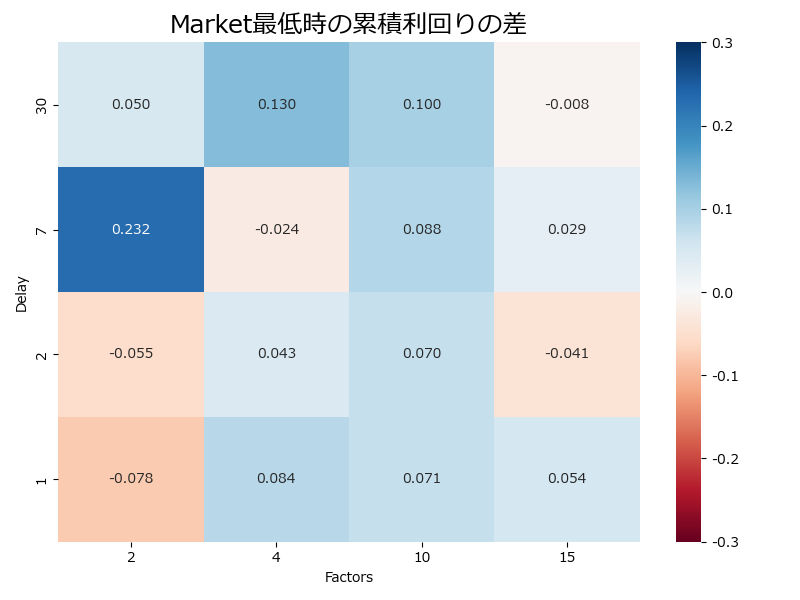
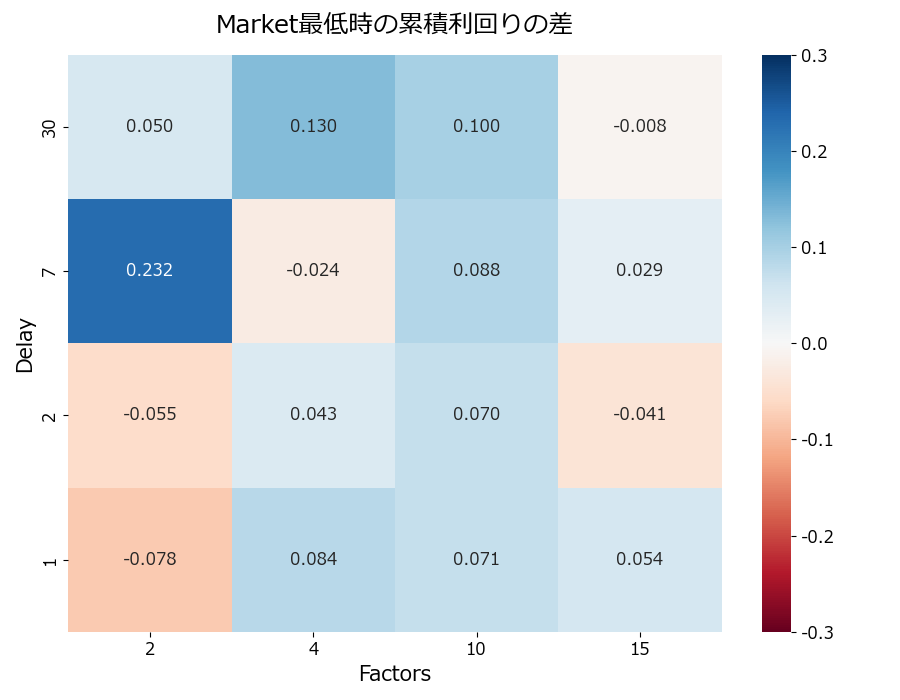
卒研資料2

diff --git a/original_work/main/analysis_pkl.py b/original_work/main/analysis_pkl.py
@@ -1,11 +1,11 @@
 """
-Trader-Company法 卒業研究分析スクリプト (Final Version 8)
+Trader-Company法 卒業研究分析スクリプト (Final Version 9)
 
 修正点:
-- BASE_PKL_DIR, CACHE_FILE のパス更新
-- (A)最終累積利回りをRandom/Geneticの比較形式(2枚並び)に変更
-- ヒートマップの配色を「赤(低) -> 白 -> 緑(高)」にカスタム設定
-- (D)のタイトル変更と全タイトルの文字サイズ拡大
+- 軸ラベル(xlabel, ylabel)と目盛り(ticks)のフォントサイズを拡大調整
+- BASE_PKL_DIR, CACHE_FILE は指定の設定を維持
+- (A)最終累積利回りをRandom/Geneticの比較形式(2枚並び・赤白緑)で出力
+- (D)のタイトル変更と全フォントサイズの最適化
 """
 
 import sys
@@ -54,7 +54,11 @@ FACTOR_PARAMS = [2, 4, 10, 15]
 # ヒートマップ共通設定
 HEATMAP_VMIN = -0.3
 HEATMAP_VMAX = 0.3
-TITLE_FONT_SIZE = 18  # タイトルの文字サイズ
+
+# --- フォントサイズ設定 (視認性向上) ---
+TITLE_FONT_SIZE = 18  # タイトル
+LABEL_FONT_SIZE = 15  # 軸ラベル (Factors, Delay)
+TICK_FONT_SIZE = 12   # 目盛り (1, 2, 7...)
 
 # 株価データ取得設定
 START_DATE = '2017-01-01'
@@ -244,26 +248,46 @@ def show_average_table(df, market_stats):
     df_table.to_csv("average_comparison_table.csv")
 
 def plot_heatmaps(df):
-    """ヒートマップを出力 (要望に合わせて構成変更)"""
+    """ヒートマップを出力 (フォントサイズ調整・(A)個別出力版)"""
     print("\n--- ヒートマップを作成中 ---")
     
     # カスタムカラーマップ作成: 赤(低) -> 白(中) -> 緑(高)
-    # 値が -0.3(赤) ... 0(白) ... 0.3(緑) となるように
     colors = ["red", "white", "green"]
     custom_cmap = mcolors.LinearSegmentedColormap.from_list("RedWhiteGreen", colors)
 
+    # 共通設定 (カラーバーの目盛りサイズも調整)
     heatmap_kwargs = {
         'annot': True, 
         'fmt': ".3f", 
         'cbar': True,
         'vmin': HEATMAP_VMIN,
         'vmax': HEATMAP_VMAX,
-        'cmap': custom_cmap # カスタムカラーを使用
+        'cmap': custom_cmap,
+        'annot_kws': {'size': TICK_FONT_SIZE},     # ヒートマップ内の数字サイズ
+        'cbar_kws': {'label': ''}                  # カラーバーラベル(必要なら設定)
     }
     
-    # (D) のデータを計算: Genetic乖離 - Random乖離
+    # (D) 用のデータ計算: Genetic乖離 - Random乖離
     df["diff_improvement"] = df["diff_min_genetic"] - df["diff_min_random"]
 
+    # プロット関数ヘルパー: 軸フォント適用
+    def apply_axis_settings(ax, title, xlabel, ylabel, ylabel_visible=True):
+        ax.set_title(title, fontsize=TITLE_FONT_SIZE, pad=15)
+        ax.set_xlabel(xlabel, fontsize=LABEL_FONT_SIZE)
+        if ylabel_visible:
+            ax.set_ylabel(ylabel, fontsize=LABEL_FONT_SIZE)
+        else:
+            ax.set_ylabel("", fontsize=LABEL_FONT_SIZE)
+            ax.set_yticks([])
+        
+        # 目盛りサイズの変更
+        ax.tick_params(axis='both', which='major', labelsize=TICK_FONT_SIZE)
+        
+        # カラーバーのフォントサイズ調整 (Seabornの仕様上、作成後にアクセス)
+        cbar = ax.collections[0].colorbar
+        cbar.ax.tick_params(labelsize=TICK_FONT_SIZE)
+
+    '''
     # --- 1. 画像(A): 最終累積利回り (Random & Genetic) ---
     fig_a, (ax1, ax2) = plt.subplots(1, 2, figsize=(16, 6))
     
@@ -288,58 +312,79 @@ def plot_heatmaps(df):
     plt.savefig("heatmap_cumret_comparison.png")
     print("画像保存: heatmap_cumret_comparison.png")
     plt.close()
+    '''
 
-    # --- 2. 画像(B)&(C): 乖離の比較 (Market最低時) ---
-    fig_bc, (ax3, ax4) = plt.subplots(1, 2, figsize=(16, 6))
+    # =========================================================
+    # (A-1) 最終累積利回り (Random) - 独立画像
+    # =========================================================
+    plt.figure(figsize=(9, 7))
+    pivot_cum_rand = df.pivot(index="delay_time_max", columns="num_factors_max", values="cumret_random")
+    pivot_cum_rand = pivot_cum_rand.sort_index(ascending=False)
     
-    # 配色は「0に近いほど良い(白)」など解釈が異なる場合もありますが、
-    # ここでは統一感を出すため同じRed-White-Greenを使うか、
-    # あるいは乖離なので「白(0)が良い」ことを示すために
-    # 'Reds'や'Blues'を使うのが一般的ですが、要望により統一しますか？
-    # 前回のコードではReds/Bluesを使っていました。
-    # 今回の指示は「(B),(C)のように繋げて」「色は高い方から緑...」は(A)に対する指示と解釈できます。
-    # ですが「すべてのヒートマップのカラー範囲を...」という以前の指示もあるので、
-    # 乖離についても、今回は視認性を優先し、以前のReds/Blues構成を維持します。
-    # (乖離は「小さい方が良い」ので、緑-白-赤だと混乱を招く可能性があります)
+    ax = sns.heatmap(pivot_cum_rand, **heatmap_kwargs)
+    apply_axis_settings(ax, "最終累積利回り（Random）", "Factors", "Delay", ylabel_visible=True)
+    
+    plt.tight_layout()
+    plt.savefig("heatmap_cumret_random.png")
+    print("画像保存: heatmap_cumret_random.png")
+    plt.close()
+
+    # =========================================================
+    # (A-2) 最終累積利回り (Genetic algorithm) - 独立画像
+    # =========================================================
+    plt.figure(figsize=(9, 7))
+    pivot_cum_gen = df.pivot(index="delay_time_max", columns="num_factors_max", values="cumret_genetic")
+    pivot_cum_gen = pivot_cum_gen.sort_index(ascending=False)
+    
+    ax = sns.heatmap(pivot_cum_gen, **heatmap_kwargs)
+    apply_axis_settings(ax, "最終累積利回り（Genetic algorithm）", "Factors", "Delay", ylabel_visible=True)
+    
+    plt.tight_layout()
+    plt.savefig("heatmap_cumret_genetic.png")
+    print("画像保存: heatmap_cumret_genetic.png")
+    plt.close()
+
+    # =========================================================
+    # (B)&(C) 乖離の比較 (Market最低時) - 連結画像
+    # =========================================================
+    fig_bc, (ax3, ax4) = plt.subplots(1, 2, figsize=(18, 7))
     
     heatmap_kwargs_bc = heatmap_kwargs.copy()
-    del heatmap_kwargs_bc['cmap'] # デフォルトまたは指定色に戻す
+    del heatmap_kwargs_bc['cmap'] # デフォルト配色に戻す
 
     # (B) Random 乖離
     pivot_diff_rand = df.pivot(index="delay_time_max", columns="num_factors_max", values="diff_min_random")
     pivot_diff_rand = pivot_diff_rand.sort_index(ascending=False)
     sns.heatmap(pivot_diff_rand, cmap="Reds", ax=ax3, **heatmap_kwargs_bc)
-    ax3.set_title("(B) Market最低時の乖離 (Random)", fontsize=TITLE_FONT_SIZE)
-    ax3.set_xlabel("Factors")
-    ax3.set_ylabel("Delay")
+    apply_axis_settings(ax3, "(B) Market最低時の乖離 (Random)", "Factors", "Delay", ylabel_visible=True)
 
     # (C) Genetic 乖離
     pivot_diff_gen = df.pivot(index="delay_time_max", columns="num_factors_max", values="diff_min_genetic")
     pivot_diff_gen = pivot_diff_gen.sort_index(ascending=False)
     sns.heatmap(pivot_diff_gen, cmap="Blues", ax=ax4, **heatmap_kwargs_bc)
-    ax4.set_title("(C) Market最低時の乖離 (Genetic)", fontsize=TITLE_FONT_SIZE)
-    ax4.set_xlabel("Factors")
-    ax4.set_ylabel("")
-    ax4.set_yticks([])
+    apply_axis_settings(ax4, "(C) Market最低時の乖離 (Genetic)", "Factors", "", ylabel_visible=False)
 
     plt.tight_layout()
     plt.savefig("heatmap_deviation_BC.png")
     print("画像保存: heatmap_deviation_BC.png")
     plt.close()
 
-    # --- 3. 画像(D): Market最低時の累積利回りの差 ---
-    plt.figure(figsize=(8, 6))
+    # =========================================================
+    # (D) Market最低時の累積利回りの差 - 独立画像
+    # =========================================================
+    plt.figure(figsize=(9, 7))
     pivot_diff_imp = df.pivot(index="delay_time_max", columns="num_factors_max", values="diff_improvement")
     pivot_diff_imp = pivot_diff_imp.sort_index(ascending=False)
     
-    # 差分は RdBu (青=High=Genetic乖離大, 赤=Low=Random乖離大)
-    # ここは以前の指定「高い方から青、赤」を維持
-    sns.heatmap(pivot_diff_imp, cmap="RdBu", center=0, 
-                annot=True, fmt=".3f", cbar=True, vmin=HEATMAP_VMIN, vmax=HEATMAP_VMAX)
+    # 差分は RdBu (青=High, 赤=Low)
+    ax = sns.heatmap(pivot_diff_imp, cmap="RdBu", center=0, 
+                annot=True, fmt=".3f", cbar=True, 
+                vmin=HEATMAP_VMIN, vmax=HEATMAP_VMAX,
+                annot_kws={'size': TICK_FONT_SIZE},
+                cbar_kws={'label': ''})
     
-    plt.title("Market最低時の累積利回りの差", fontsize=TITLE_FONT_SIZE)
-    plt.xlabel("Factors")
-    plt.ylabel("Delay")
+    apply_axis_settings(ax, "Market最低時の累積利回りの差", "Factors", "Delay", ylabel_visible=True)
+    
     plt.tight_layout()
     plt.savefig("heatmap_deviation_diff.png")
     print("画像保存: heatmap_deviation_diff.png")
